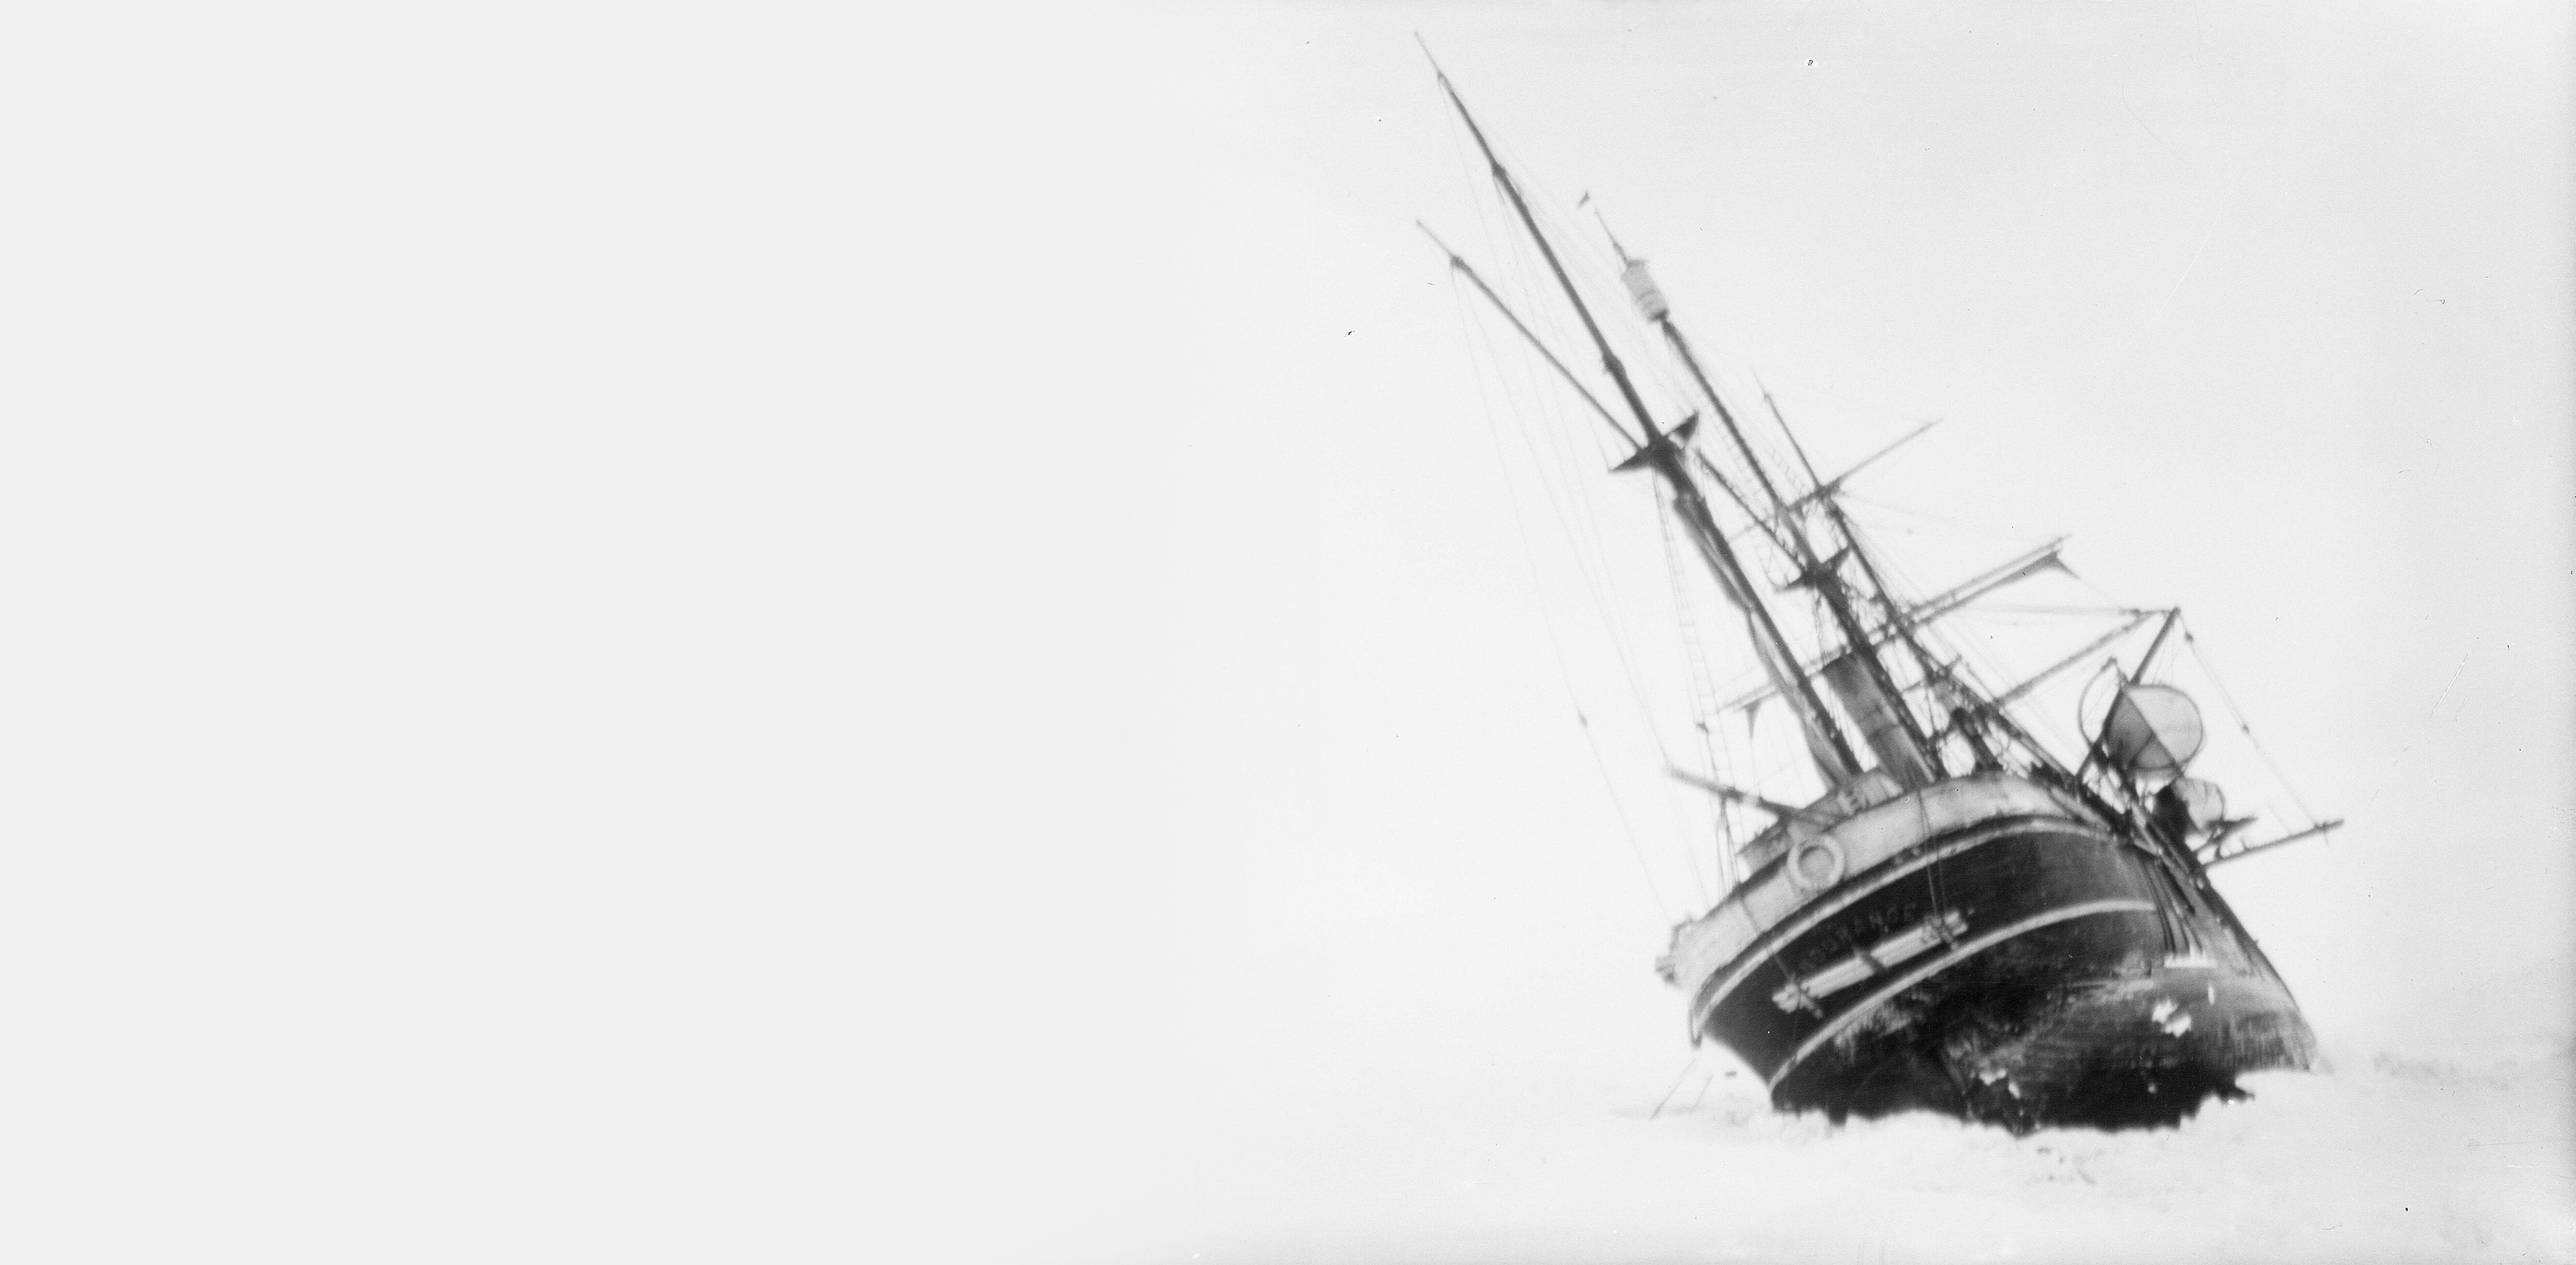
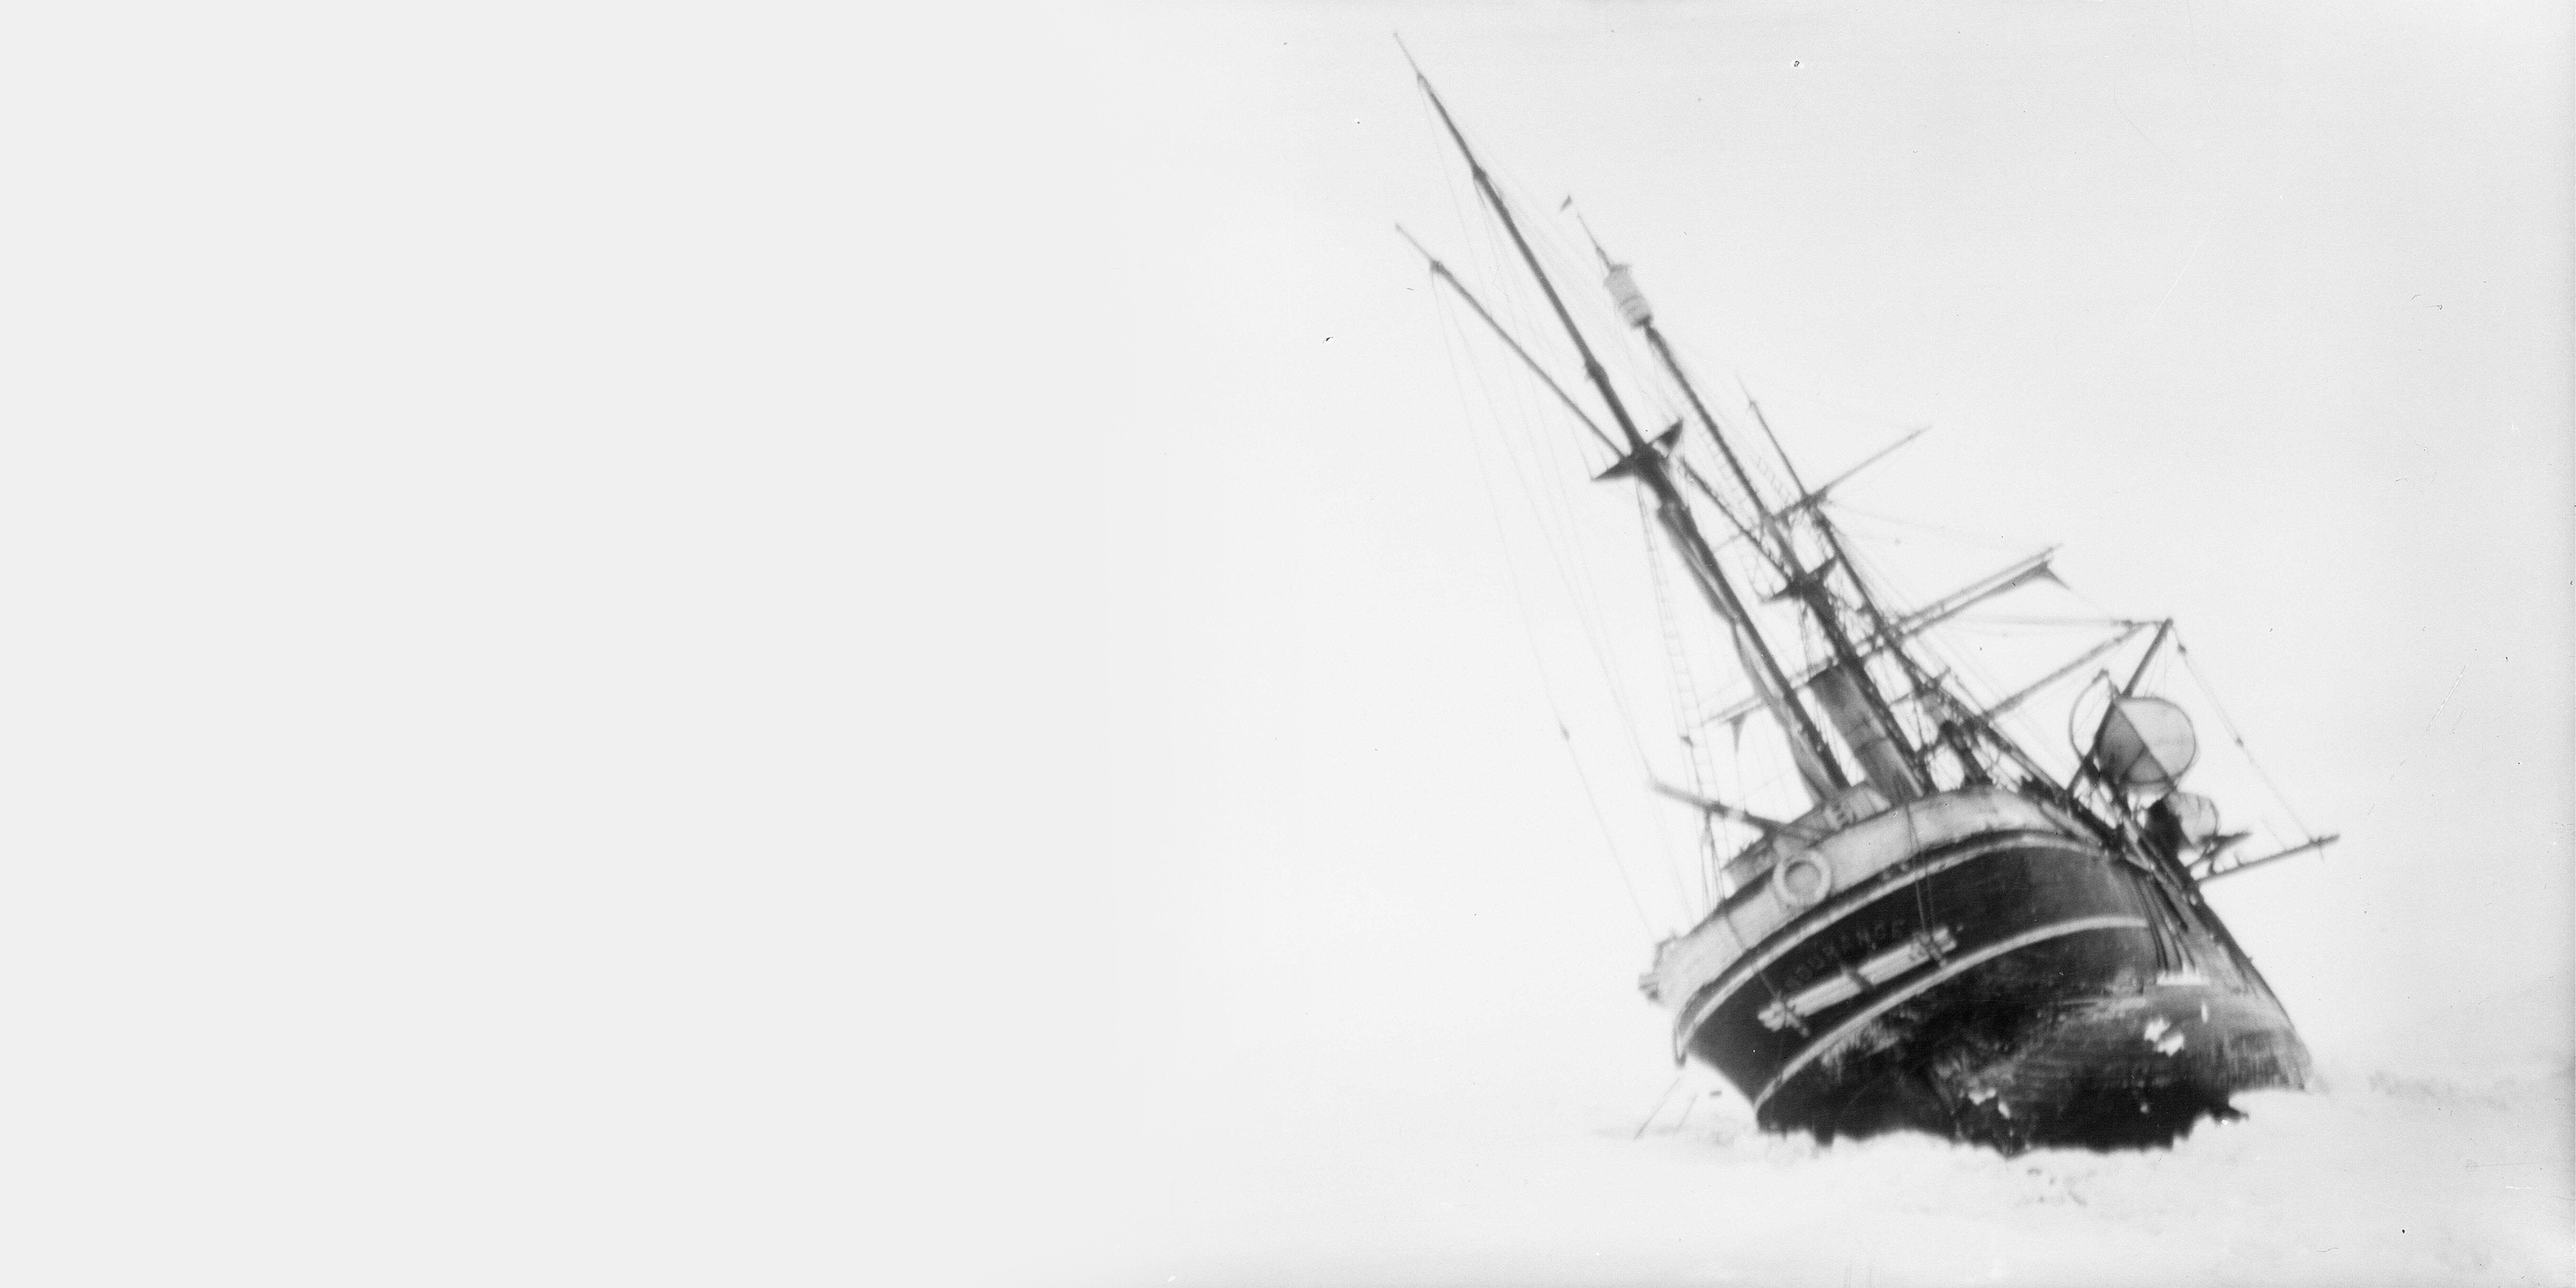
Add ship, crew, and bibliography pages; update navigation
Introduces new pages for The Ship, The Crew, and Bibliography, including associated images. Updates navigation to reflect these additions and removes the Contact page. Refactors navigation HTML for simplicity, adjusts styles for hero and crew sections, and corrects image alt text on the homepage. Also renames a blog post file for consistency.

Changed region(s): [[0.5592, 0.0622, 0.901, 0.9014]]

diff --git a/_sass/main.scss b/_sass/main.scss
@@ -49,7 +49,7 @@ a {
 }
 
 img {
-  max-width: 100%;
+  width: 100%;
   height: auto;
 }
 
@@ -58,17 +58,25 @@ img {
 
 .hero {
   position: relative;
-  height: 300px;
-  display: flex;
-  flex-direction: column;
-  justify-content: center;
-  text-align: center;
 }
 
 .hero-text {
   position: absolute;
   top: 50%;
-  padding: 0 20px 0 20px;
+  left: 30%;
+  transform: translate(-50%, -50%);
+  margin: 0 0 0 50px;
+  padding: 0;
+}
+
+.crew-title {
+  position: absolute;
+  top: 50%;
+  left: 15%;
+  transform: translate(-50%, -50%);
+  margin: 0 0 0 50px;
+  padding: 0;
+  text-shadow: 2px 2px 4px rgba(255, 255, 255, 0.75);
 }
 
 
@@ -89,6 +97,7 @@ nav {
   background: #ffffff7f;
   backdrop-filter: blur(8px);
   z-index: 10;
+  min-height: 30px;
 }
 
 nav a {
@@ -119,4 +128,18 @@ nav a:hover {
   transform: translateX(-50%);
   display: flex;
   gap: 10px;
+}
+
+
+// MARK: Media
+
+@media screen and (max-width: 800px) {
+  .nav-title {
+    display: none;
+  }
+
+  .crew-title {
+    left: 40%;
+    text-align: center;
+  }
 }

diff --git a/_includes/navigation.html b/_includes/navigation.html
@@ -2,18 +2,7 @@
   <span class="nav-title">The Endurance Project</span>
   <div class="nav-links">
   {% for item in site.data.navigation %}
-    {% if item.sublinks %}
-      <div class="dropdown">
-        <a href="{{ item.link }}" class="dropbtn{% if page.url == item.link %} current{% endif %}">{{ item.name }}</a>
-        <div class="dropdown-content">
-          {% for sublink in item.sublinks %}
-            <a href="{{ sublink.link }}"{% if page.url == sublink.link %} class="current"{% endif %}>{{ sublink.name }}</a>
-          {% endfor %}
-        </div>
-      </div>
-    {% else %}
-      <a href="{{ item.link }}"{% if page.url == item.link %} class="current"{% endif %}>{{ item.name }}</a>
-    {% endif %}
+    <a href="{{ item.link }}"{% if page.url == item.link %} class="current"{% endif %}>{{ item.name }}</a>
   {% endfor %}
   </div>
 </nav>

diff --git a/_layouts/default.html b/_layouts/default.html
@@ -4,7 +4,7 @@
     <meta charset="utf-8">
     <title>{{ page.title }}</title>
 
-    <link rel="stylesheet" href="{{'/assets/css/style.css' | absolute_url}}">
+    <link rel="stylesheet" href="{{'assets/css/style.css' | absolute_url}}">
 
     <link rel="preconnect" href="https://fonts.googleapis.com">
     <link rel="preconnect" href="https://fonts.gstatic.com" crossorigin>

diff --git a/index.html b/index.html
@@ -4,6 +4,6 @@ title: Home
 ---
 
 <header class="hero">
-  <img src="/assets/images/Endurance1.jpg" alt="The Endurance listing.">
+  <img src="/assets/images/Endurance1.jpg" alt="The Endurance listing to port in the ice.">
   <h1 class="hero-text">The Endurance Project</h1>
 </header>

diff --git a/ship.html b/ship.html
@@ -1,0 +1,9 @@
+---
+layout: default
+title: The Crew
+---
+
+<header class="hero">
+  <img src="/assets/images/Endurance2.jpg" alt="All 28 crew members standing at the bow of the Endurance.">
+  <h1 class="hero-text">The Crew</h1>
+</header>

diff --git a/crew.html b/crew.html
@@ -1,0 +1,9 @@
+---
+layout: default
+title: The Crew
+---
+
+<header class="hero">
+  <img src="/assets/images/crew.jpg" alt="All 28 crew members standing at the bow of the Endurance.">
+  <h1 class="crew-title">The Crew</h1>
+</header>

diff --git a/bibliography.html b/bibliography.html
@@ -1,0 +1,6 @@
+---
+layout: default
+title: Contact
+---
+
+<h1>Bibliography</h1>
